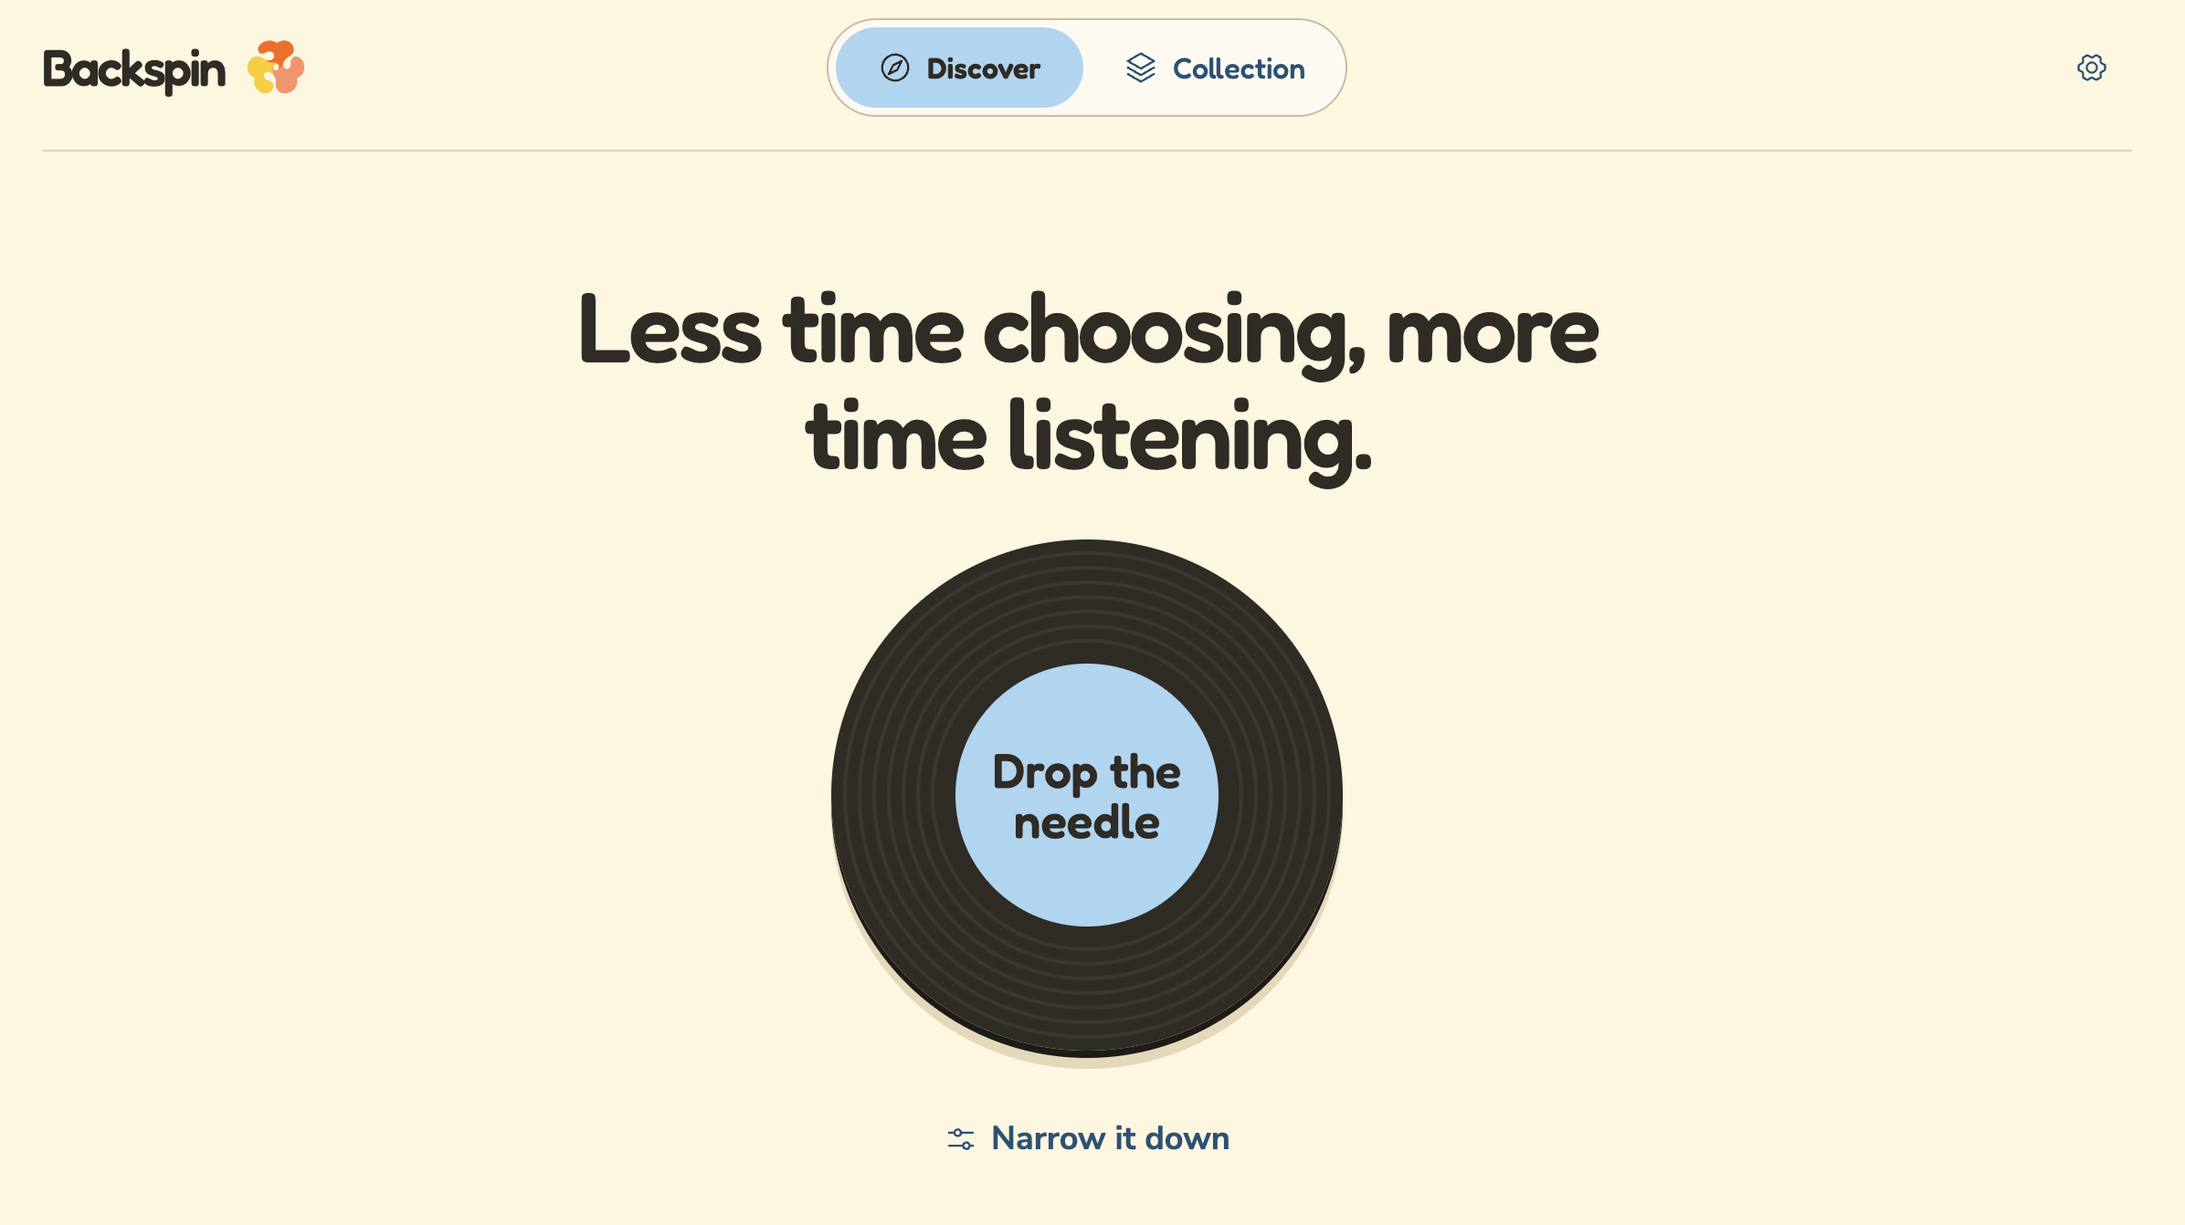
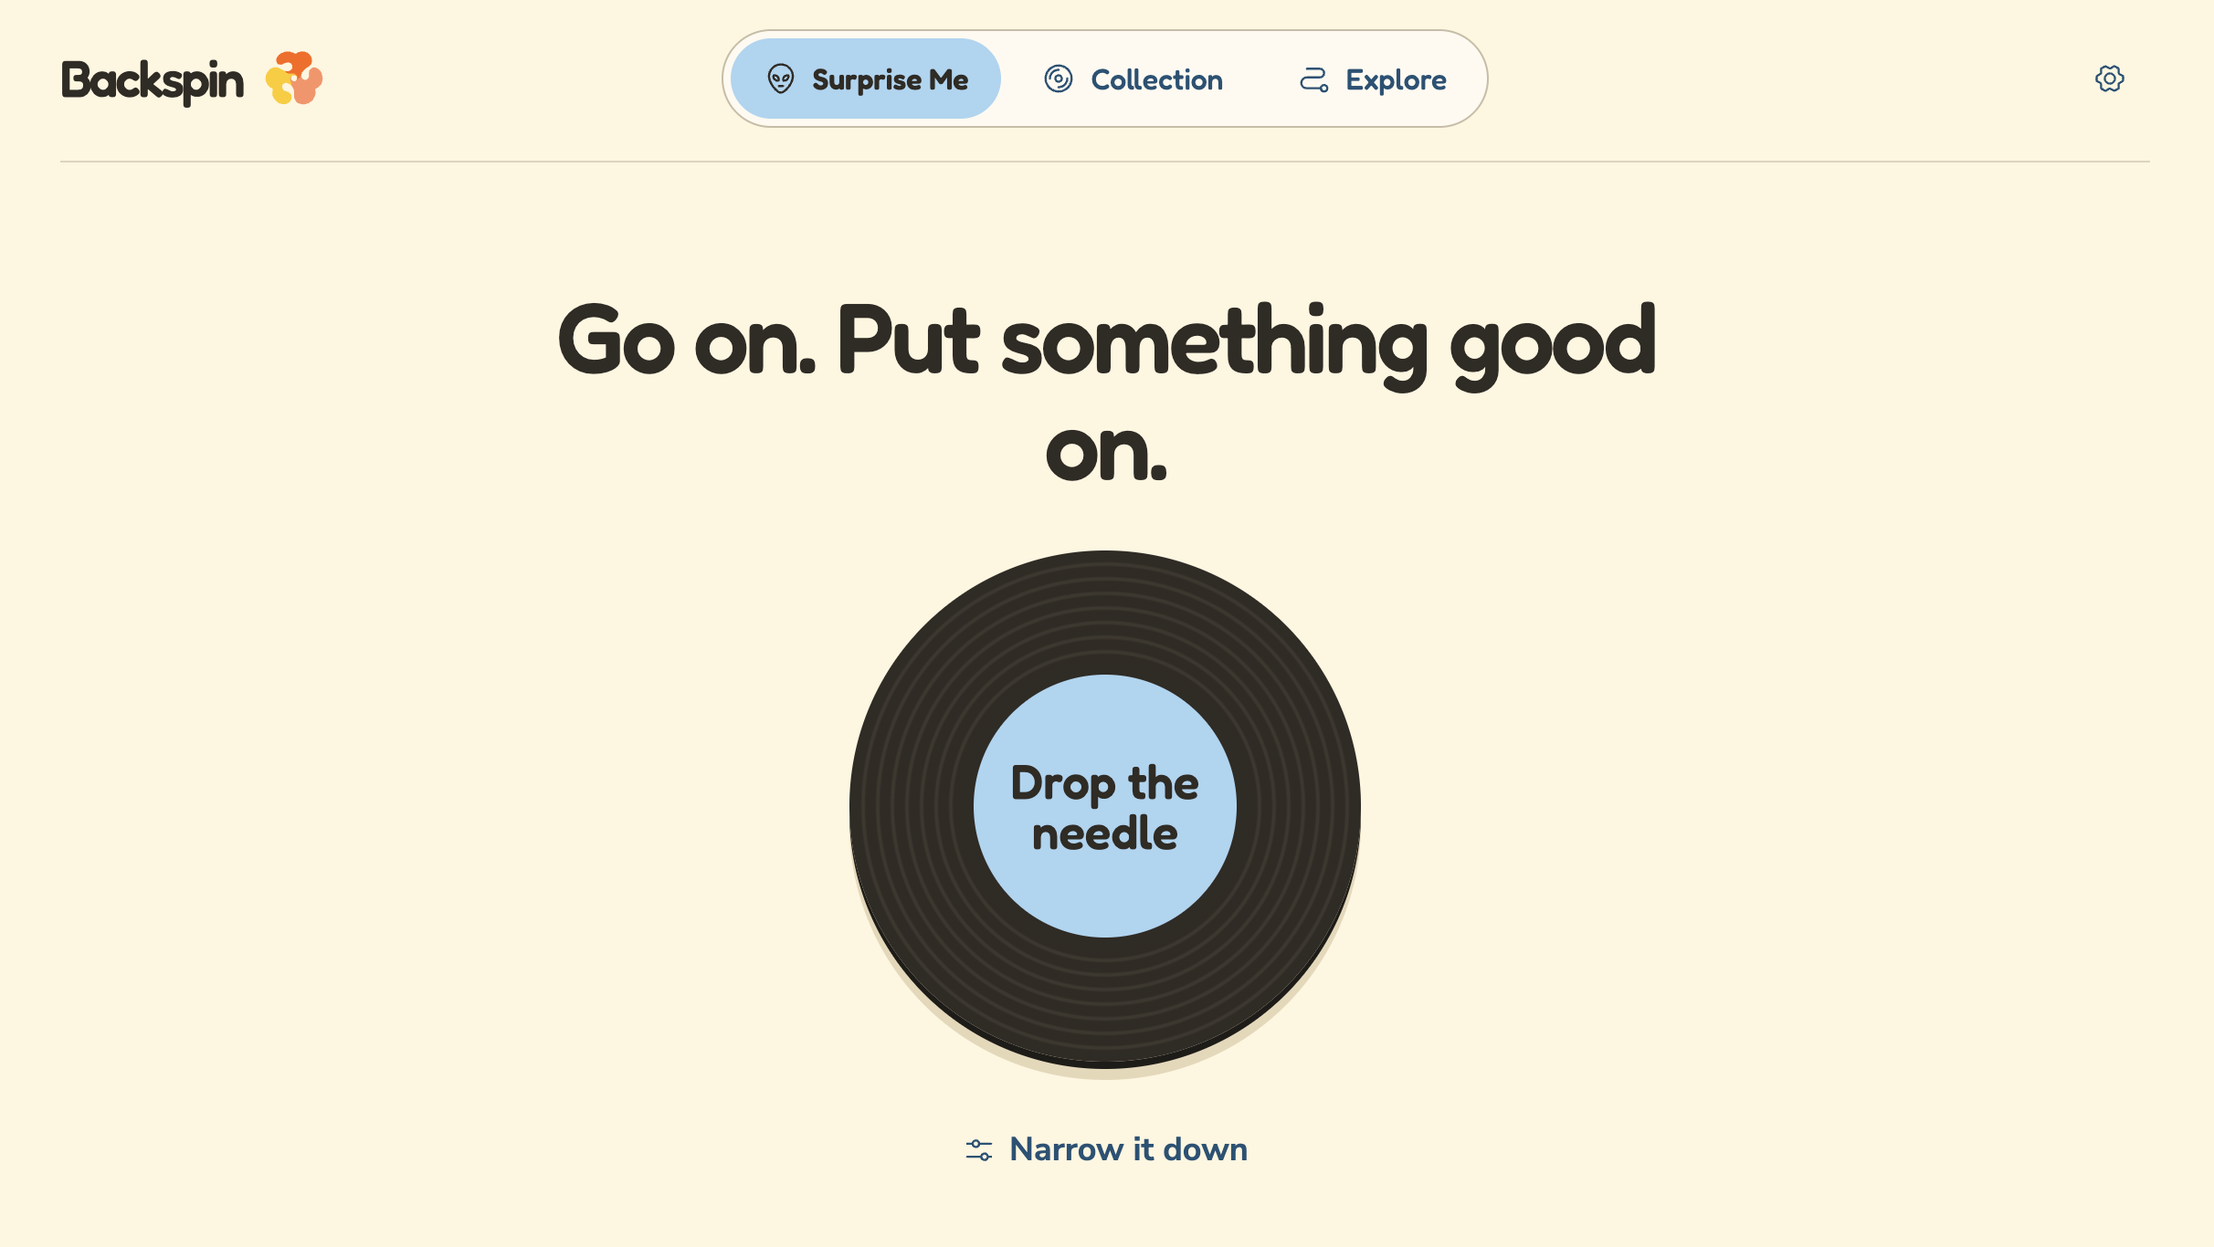
Introduce field journal visual identity

diff --git a/src/styles/app.css b/src/styles/app.css
@@ -1,11 +1,21 @@
 
 .page-heading { max-width: 52rem; padding-block: 2rem 1.5rem; }
 .about-heading > p:not(.eyebrow) { color: var(--ink-soft); font-size: 1.3rem; line-height: 1.5; }
-.about-socials { display: flex; flex-wrap: wrap; gap: 1rem; margin-top: 2rem; }
-.about-socials a { display: inline-flex; align-items: center; gap: .65rem; padding: .8rem 1.1rem; border: 1px solid var(--forest); border-radius: 999px; color: var(--forest); font-weight: 700; text-decoration: none; transition: background-color .2s, transform .2s; }
+.about-interests { display: flex; flex-wrap: wrap; gap: .75rem; margin: 1.5rem 0 2.5rem; }
+.about-interests span { display: grid; width: 3.5rem; height: 3.5rem; place-items: center; color: var(--forest); background: #e1edcf; border-radius: 40% 60% 55% 45%; }
+.about-interests span:nth-child(2) { color: var(--terracotta); background: #f7e3d3; border-radius: 55% 45% 40% 60%; }
+.about-interests span:nth-child(3) { color: var(--sea); background: #d9ebea; }
+.about-interests span:nth-child(4) { color: var(--forest); background: #f2e8bd; border-radius: 55% 45% 60% 40%; }
+.about-interests svg { width: 2rem; height: 2rem; }
+.about-links-heading { margin: 0 0 1rem; color: var(--forest); font-size: 1.8rem; font-weight: 400; }
+.about-socials { display: flex; flex-wrap: wrap; gap: 1rem; }
+.about-socials a { display: flex; align-items: center; gap: .8rem; flex: 1 1 14rem; padding: 1rem 1.2rem; border: 1px solid #b6ceaa; border-radius: 1rem; background: #f5f9ed; color: var(--forest); text-decoration: none; transition: background-color .2s, transform .2s; }
+.social-copy { display: grid; flex: 1; line-height: 1.3; }
+.social-copy strong { font-size: 1.15rem; }
+.social-copy small { color: var(--ink-soft); font-size: .95rem; }
 .about-socials a:hover { background: rgba(98, 134, 111, .12); transform: translateY(-2px); }
 .about-socials svg { width: 1.4rem; height: 1.4rem; }
-.eyebrow { color: #97603a; font-size: .95rem; font-weight: 700; letter-spacing: .1em; text-transform: uppercase; }
+.eyebrow { color: var(--terracotta); font-size: .95rem; font-weight: 700; letter-spacing: .1em; text-transform: uppercase; }
 .page-heading h1,
 .collection-heading h1 { margin: .3rem 0 .5rem; color: var(--forest); font-size: clamp(2.5rem, 3.5vw, 3.25rem); font-weight: 500; letter-spacing: -.04em; line-height: 1; }
 .page-heading > p:last-child,
@@ -18,12 +28,12 @@
 .projects-heading p { margin-block: .35rem; }
 .projects-shell { display: grid; grid-template-columns: minmax(13rem, 16rem) minmax(0, 1fr); align-items: start; gap: clamp(2rem, 6vw, 5rem); }
 .projects-sidebar { position: sticky; top: 1.25rem; }
-.project-contents { overflow: hidden; background: rgba(255, 255, 255, .36); border: 1px solid rgba(38, 63, 52, .16); border-radius: 1.25rem; box-shadow: 0 1rem 2.5rem rgba(38, 63, 52, .06); }
+.project-contents { overflow: hidden; background: #e5efd7; border: 1px solid #b6ceaa; border-radius: 1.25rem 2.5rem 1.25rem 1.25rem; box-shadow: 0 .6rem 0 rgba(71, 112, 63, .08); }
 .project-contents summary { display: flex; align-items: center; justify-content: space-between; gap: 1rem; padding: 1rem 1.1rem; color: var(--forest); font-size: 1rem; font-weight: 700; letter-spacing: .08em; list-style: none; text-transform: uppercase; cursor: pointer; }
 .project-contents summary::-webkit-details-marker { display: none; }
 .contents-toggle { color: var(--terracotta); font-family: sans-serif; font-size: 1rem; transition: transform .25s ease; }
 .project-contents[open] .contents-toggle { transform: rotate(180deg); }
-.project-contents nav { padding: 0 .55rem .65rem; border-top: 1px solid rgba(38, 63, 52, .12); }
+.project-contents nav { padding: 0 .55rem .65rem; border-top: 1px solid #b6ceaa; }
 .project-contents ol { margin: 0; padding: .45rem 0 0; list-style: none; }
 .project-contents a { display: grid; grid-template-columns: minmax(0, 1fr) auto; align-items: start; gap: .55rem; padding: .7rem .55rem; color: var(--forest); border-radius: .75rem; line-height: 1.25; text-decoration: none; transition: color .25s ease, background-color .25s ease; }
 .project-contents a > span { color: var(--terracotta); font-size: .95rem; font-weight: 700; }
@@ -32,12 +42,13 @@
 .project-contents a:hover { color: var(--sea); background: rgba(0, 112, 157, .08); }
 .project-contents a:hover > span:last-child { transform: translateY(3px); }
 .project-list { min-width: 0; }
-.project-section { padding-bottom: 3rem; border-top: 1px solid rgba(38, 63, 52, .22); scroll-margin-top: 1.25rem; }
+.project-section { padding-bottom: 3rem; border-top: 2px solid #b8cda8; scroll-margin-top: 1.25rem; }
 .project-section + .project-section { padding-top: 1rem; }
 .project-header { padding-top: 1.35rem; }
 .project-header .project-tagline { margin: .45rem 0 0; color: var(--ink-soft); font-size: 1.15rem; line-height: 1.4; }
 .project-header h2 { max-width: 42rem; margin: 0; color: var(--forest); font-size: clamp(2rem, 3vw, 2.75rem); font-weight: 400; letter-spacing: -.035em; line-height: 1; }
-.project-preview { position: relative; display: block; margin-block: 1.25rem; overflow: hidden; background: #fff; border: .65rem solid var(--forest-deep); border-radius: 1.5rem; box-shadow: 0 1.8rem 4rem rgba(38, 63, 52, .16); }
+.project-icon { width: .65em; height: .65em; margin-right: .4rem; color: var(--terracotta); vertical-align: .05em; }
+.project-preview { position: relative; display: block; margin-block: 1.25rem; overflow: hidden; background: #fff; border: .5rem solid var(--forest-deep); border-radius: 1.5rem; box-shadow: .5rem .5rem 0 #c4d9aa; }
 .project-preview img { display: block; width: 100%; height: auto; border-radius: .9rem; transition: transform .45s ease; }
 .preview-visit { position: absolute; right: 1rem; bottom: 1rem; display: inline-flex; align-items: center; gap: .35rem; padding: .65rem .85rem; color: var(--paper); background: rgba(25, 49, 40, .94); border-radius: 999px; font-size: .82rem; font-weight: 700; box-shadow: 0 .5rem 1.5rem rgba(25, 49, 40, .2); transition: background-color .25s ease, transform .25s ease; }
 .project-preview:hover img { transform: scale(1.01); }

diff --git a/src/components/App.tsx b/src/components/App.tsx
@@ -8,6 +8,7 @@ import {
   useParams,
 } from "react-router-dom";
 import { useCallback, useEffect, useRef, useState } from "react";
+import { Bird, Books, Checkerboard, CookingPot, Disc, Headphones, Leaf } from "@phosphor-icons/react";
 import type { KeyboardEvent, MouseEvent, ReactNode } from "react";
 import avianVisitorsPreview from "../assets/images/projects/avian-visitors-ebird.png";
 import backspinPreview from "../assets/images/projects/backspin.png";
@@ -28,6 +29,7 @@ interface Project {
   slug: string;
   title: string;
   tagline: string;
+  icon: typeof Bird;
   repoUrl: string;
   siteUrl: string;
   previewImage: string;
@@ -44,12 +46,13 @@ const projects: Project[] = [
     slug: "backspin",
     title: "Backspin",
     tagline: "Less time choosing, more time listening.",
+    icon: Disc,
     repoUrl: "https://github.com/Nicholas-Nazario/backspin",
     siteUrl: "https://backspin.fly.dev/",
     previewImage: backspinPreview.src,
-    previewAlt: "Backspin’s Discover page with a vinyl record and the prompt to drop the needle",
-    previewWidth: 2392,
-    previewHeight: 1342,
+    previewAlt: "Backspin’s Surprise Me page with a vinyl record and the prompt to drop the needle",
+    previewWidth: 2424,
+    previewHeight: 1366,
     description: (
       <>
         Backspin is a record recommendation app powered by your Discogs collection and Spotify listening data.
@@ -62,6 +65,7 @@ const projects: Project[] = [
     slug: "empujon",
     title: "Empujón",
     tagline: "A two-player abstract strategy game.",
+    icon: Checkerboard,
     repoUrl: "https://github.com/Nicholas-Nazario/empujon",
     siteUrl: "https://empujon.fly.dev/",
     previewImage: empujonPreview.src,
@@ -81,6 +85,7 @@ const projects: Project[] = [
     slug: "avian-visitors-ebird",
     title: "Avian Visitors: eBird Edition",
     tagline: "A live bird collage powered by eBird observations.",
+    icon: Bird,
     repoUrl: "https://github.com/Nicholas-Nazario/AvianVisitors-eBird/tree/avian-visitors",
     siteUrl: "https://avianvisitors-ebird.fly.dev/",
     previewImage: avianVisitorsPreview.src,
@@ -168,7 +173,7 @@ function Header() {
   return (
     <header className="site-header">
       <Link className="site-name" to="/" aria-label="Nicholas Nazario — Home">
-        <span className="site-mark" aria-hidden="true">✦</span>
+        <span className="site-mark" aria-hidden="true"><Leaf weight="fill" /></span>
         <span>Nicholas Nazario</span>
       </Link>
       <nav aria-label="Main navigation">
@@ -194,17 +199,21 @@ function Footer() {
 function AboutView() {
   return (
     <section className="page-heading about-heading route-view">
-      <p className="eyebrow">A little about me</p>
       <h1 data-route-heading tabIndex={-1}>About</h1>
       <p>I’m Nicholas, a software engineer who likes birding, reading, cooking, and listening to music.</p>
-      <div className="about-socials" aria-label="Social links">
+      <div className="about-interests" aria-hidden="true">
+        <span><Bird weight="duotone" /></span><span><Books weight="duotone" /></span>
+        <span><CookingPot weight="duotone" /></span><span><Headphones weight="duotone" /></span>
+      </div>
+      <h2 className="about-links-heading">Find me elsewhere</h2>
+      <div className="about-socials">
         <a href="https://github.com/Nicholas-Nazario" target="_blank" rel="noopener noreferrer">
           <svg viewBox="0 0 24 24" aria-hidden="true" fill="currentColor"><path d="M12 .9a11.1 11.1 0 0 0-3.51 21.63c.55.1.76-.24.76-.53v-1.89c-3.1.67-3.75-1.31-3.75-1.31-.5-1.29-1.23-1.63-1.23-1.63-1.01-.69.08-.68.08-.68 1.12.08 1.71 1.15 1.71 1.15.99 1.7 2.6 1.21 3.24.92.1-.72.39-1.21.7-1.49-2.47-.28-5.07-1.23-5.07-5.49 0-1.21.43-2.2 1.14-2.97-.12-.28-.5-1.41.1-2.93 0 0 .93-.3 3.05 1.13a10.6 10.6 0 0 1 5.56 0c2.12-1.43 3.05-1.13 3.05-1.13.6 1.52.22 2.65.11 2.93.71.77 1.13 1.76 1.13 2.97 0 4.27-2.6 5.2-5.08 5.48.4.35.75 1.02.75 2.06V22c0 .29.2.64.77.53A11.1 11.1 0 0 0 12 .9Z"/></svg>
-          GitHub <span aria-hidden="true">↗</span>
+          <span className="social-copy"><strong>GitHub</strong><small>Code and projects</small></span><span aria-hidden="true">↗</span>
         </a>
         <a href="https://flic.kr/ps/48fF81" target="_blank" rel="noopener noreferrer">
           <svg viewBox="0 0 24 24" aria-hidden="true"><circle cx="7" cy="12" r="4" fill="#0063dc"/><circle cx="17" cy="12" r="4" fill="#ff0084"/></svg>
-          Flickr <span aria-hidden="true">↗</span>
+          <span className="social-copy"><strong>Flickr</strong><small>Photographs</small></span><span aria-hidden="true">↗</span>
         </a>
       </div>
     </section>
@@ -215,7 +224,6 @@ function ProjectsView() {
   return (
     <div className="route-view">
       <section className="page-heading projects-heading">
-        <p className="eyebrow">Selected work</p>
         <h1 data-route-heading tabIndex={-1}>Projects</h1>
         <p>Things I’ve designed, built, and learned from along the way.</p>
       </section>
@@ -252,7 +260,7 @@ function ProjectsView() {
               key={project.slug}
             >
               <header className="project-header">
-                <h2 id={`${project.slug}-heading`}>{project.title}</h2>
+                <h2 id={`${project.slug}-heading`}><project.icon className="project-icon" weight="fill" aria-hidden="true" />{project.title}</h2>
                 <p className="project-tagline">{project.tagline}</p>
               </header>
 

diff --git a/src/styles/global.css b/src/styles/global.css
@@ -1,17 +1,17 @@
 :root {
   font-family: "Alegreya", Georgia, serif;
   color: #26362d;
-  background: #f4eee2;
+  background: #f7f8ed;
   font-synthesis: none;
-  --forest: #263f34;
-  --forest-deep: #193128;
-  --moss: #7f8a57;
+  --forest: #204b38;
+  --forest-deep: #173d2e;
+  --moss: #83a861;
   --clay: #a04c4c;
-  --terracotta: #d67330;
-  --honey: #f2b14c;
-  --sea: #00709d;
-  --paper: #f4eee2;
-  --ink-soft: #647267;
+  --terracotta: #b95336;
+  --honey: #eac76a;
+  --sea: #17677a;
+  --paper: #f7f8ed;
+  --ink-soft: #4f6656;
 }
 
 * { box-sizing: border-box; }
@@ -26,8 +26,9 @@ body {
   line-height: 1.6;
   overflow-x: hidden;
   background:
-    radial-gradient(circle at 88% 10%, rgba(242, 177, 76, .16), transparent 24rem),
-    linear-gradient(135deg, #f8f2e8 0%, var(--paper) 48%, #e9eee1 100%);
+    radial-gradient(circle at 90% 12%, rgba(164, 200, 130, .25), transparent 25rem),
+    radial-gradient(circle at 5% 70%, rgba(234, 199, 106, .13), transparent 24rem),
+    var(--paper);
 }
 
 a { color: inherit; }
@@ -56,13 +57,15 @@ h1, h2, .site-name { font-family: "Chicle", "Trebuchet MS", sans-serif; }
 }
 
 .site-name { display: inline-flex; align-items: center; gap: .55rem; color: var(--forest); font-size: 1.5rem; font-weight: 400; letter-spacing: .01em; text-decoration: none; }
-.site-mark { display: grid; width: 2rem; height: 2rem; place-items: center; color: var(--honey); background: var(--forest); border-radius: 50% 50% 50% 12%; font-family: sans-serif; font-size: .9rem; transform: rotate(-14deg); }
+.site-mark { display: grid; width: 2rem; height: 2rem; place-items: center; color: var(--forest); }
+.site-mark svg { width: 100%; height: 100%; }
 
-.site-header nav { display: flex; gap: .25rem; padding: .3rem; background: rgba(255, 255, 255, .55); border: 1px solid rgba(38, 63, 52, .25); border-radius: 999px; }
+.site-header nav { display: flex; gap: .25rem; padding: .3rem; background: #e3efd3; border: 1px solid #abc89c; border-radius: 999px; }
 .site-header nav a { position: relative; display: inline-flex; align-items: center; gap: .5rem; padding: .65rem 1.1rem; color: var(--forest); font-size: 1rem; font-weight: 700; letter-spacing: .04em; text-decoration: none; text-transform: uppercase; border-radius: 999px; transition: color .35s ease, background-color .35s ease; }
 .site-header nav a span { color: var(--terracotta); font-size: .65rem; }
 .site-header nav a:hover,
 .site-header nav a.active { color: var(--paper); background: var(--forest); }
+:focus-visible { outline: 3px solid var(--sea); outline-offset: 3px; }
 .site-header nav a.active span { color: var(--honey); }
 
 main { width: min(100% - 4rem, 76rem); margin-inline: auto; }

diff --git a/VISUAL_IDENTITY.md b/VISUAL_IDENTITY.md
@@ -1,0 +1,37 @@
+# Visual identity
+
+## Direction
+
+This site is a personal home for Nicholas's projects and interests. It should feel curious, grounded, and welcoming, with a little of the character of an independent field journal. Birding, photography, music, and making things can inform the mood without turning the interface into a literal illustration of any one interest.
+
+Keep forest green as the anchor, with fresh leaf greens, warm clay, and a touch of water blue on a light paper canvas. Project screenshots and photographs bring their own colors; give them room to stand on their own.
+
+## Color and surfaces
+
+The shared colors live in `src/styles/global.css`. Forest and deep forest ground headings, navigation, and primary actions. Leaf green gives panels and small decorative marks a lively lift; clay highlights details, and water blue identifies links and focus. The canvas is light, warm paper. Use accents with purpose rather than assigning a different color to every element.
+
+Keep text and controls readable against their surfaces. Check contrast in normal, hover, active, and keyboard focus states. Do not rely on color alone to indicate the current page or an interaction state. Consolidate repeated color values into shared tokens as the palette is refined.
+
+## Typography
+
+The current pairing is Chicle for display headings and the site name, with Alegreya for body copy and controls. The display face gives the site its personality; use it with restraint so project names remain readable and do not overwhelm their descriptions. Keep body text and functional labels comfortably legible, with a consistent scale and modest differences between levels. Avoid tiny uppercase labels and excessive tracking.
+
+## Layout and imagery
+
+Projects is the entry point. Bring the project index and first project into view without large empty gaps, and maintain a clear relationship between each title, tagline, screenshot, description, and links. The About page should be brief and easy to scan. Use spacing to group related content, not as decoration for its own sake.
+
+Let project screenshots show the actual work. Preserve their proportions and avoid recoloring or decorating the images. Rounded shapes, botanical marks, and a small offset shadow give the page a playful field journal character while keeping the interface quieter than the projects it presents.
+
+## Navigation and interaction
+
+Make Projects and About easy to find, with a clear current-page state. Use recognizable social icons alongside text labels. Keep links and controls large enough to use comfortably on touch screens, and provide visible keyboard focus. Motion should be subtle, quick, and respectful of reduced-motion preferences.
+
+Use Phosphor icons for interface and decorative icons, with consistent sizing and a weight suited to their context. Decorative icons are hidden from assistive technology; icon-only controls need accessible names.
+
+## Voice
+
+Write in a direct, personable voice. Describe what a project does in plain language, credit its inspirations, and let its personality come through without marketing filler.
+
+## Review
+
+For visual changes, inspect Projects and About at desktop and mobile widths, including navigation, project links, social links, hover, and keyboard focus. Check that long project titles wrap cleanly and that images remain readable. Update this document when a visual decision becomes established.
